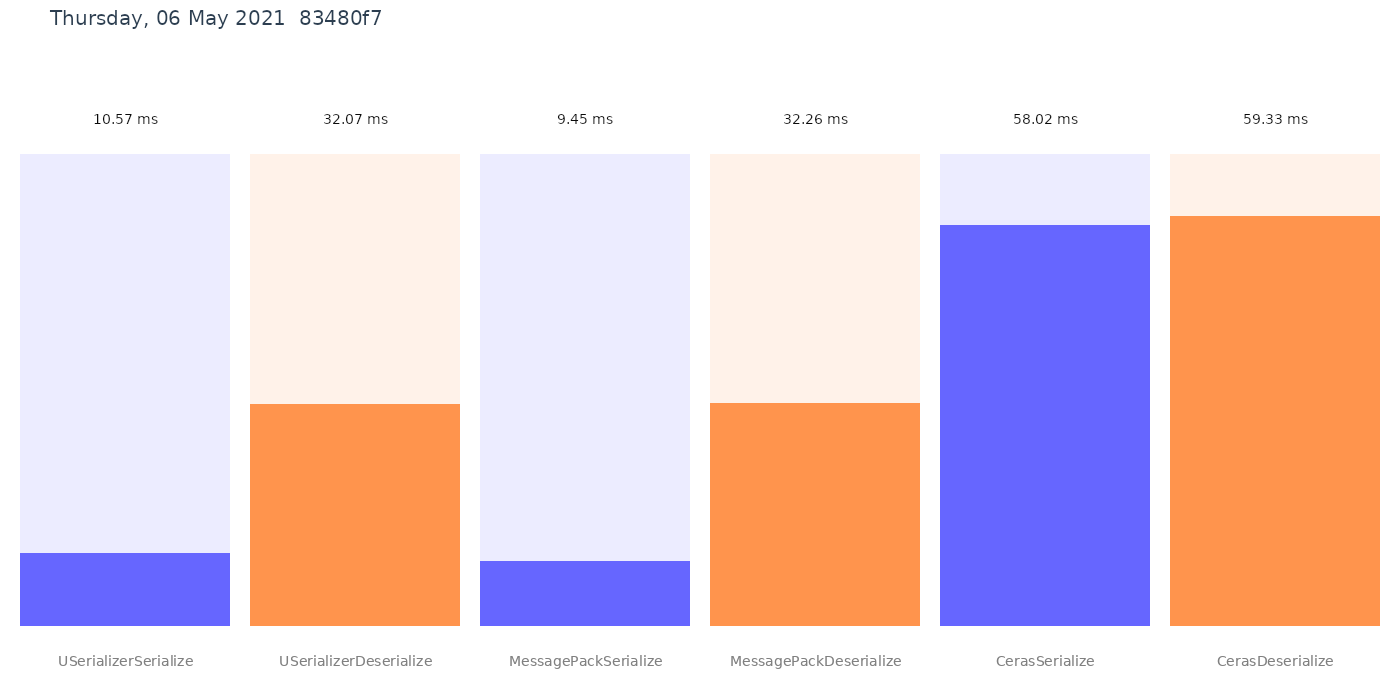
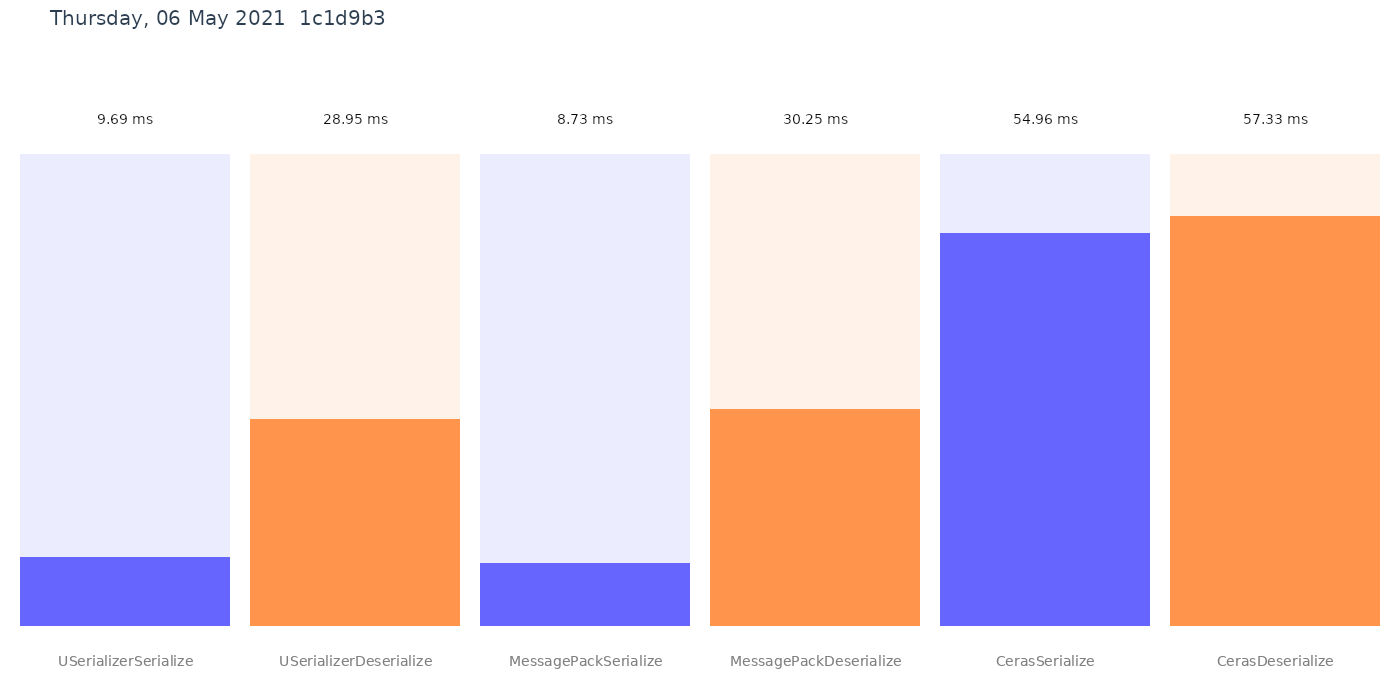
deploy: 1c1d9b35f5ee7ba8ac470abccf86531540b01faa

diff --git a/performance.md b/performance.md
@@ -10,11 +10,11 @@ Job=ShortRun  IterationCount=3  LaunchCount=1
 WarmupCount=3  
 
 ```
-|                 Method |      Mean |      Error |    StdDev |
-|----------------------- |----------:|-----------:|----------:|
-|   USerializerSerialize | 10.571 ms |  2.0719 ms | 0.1136 ms |
-| USerializerDeserialize | 32.070 ms |  4.1953 ms | 0.2300 ms |
-|   MessagePackSerialize |  9.453 ms |  0.0745 ms | 0.0041 ms |
-| MessagePackDeserialize | 32.260 ms |  9.8233 ms | 0.5384 ms |
-|         CerasSerialize | 58.022 ms | 10.7485 ms | 0.5892 ms |
-|       CerasDeserialize | 59.334 ms | 10.7820 ms | 0.5910 ms |
+|                 Method |      Mean |     Error |    StdDev |
+|----------------------- |----------:|----------:|----------:|
+|   USerializerSerialize |  9.693 ms |  3.214 ms | 0.1762 ms |
+| USerializerDeserialize | 28.946 ms | 23.800 ms | 1.3045 ms |
+|   MessagePackSerialize |  8.732 ms |  6.404 ms | 0.3510 ms |
+| MessagePackDeserialize | 30.252 ms |  6.694 ms | 0.3669 ms |
+|         CerasSerialize | 54.959 ms | 17.169 ms | 0.9411 ms |
+|       CerasDeserialize | 57.327 ms | 36.736 ms | 2.0136 ms |
